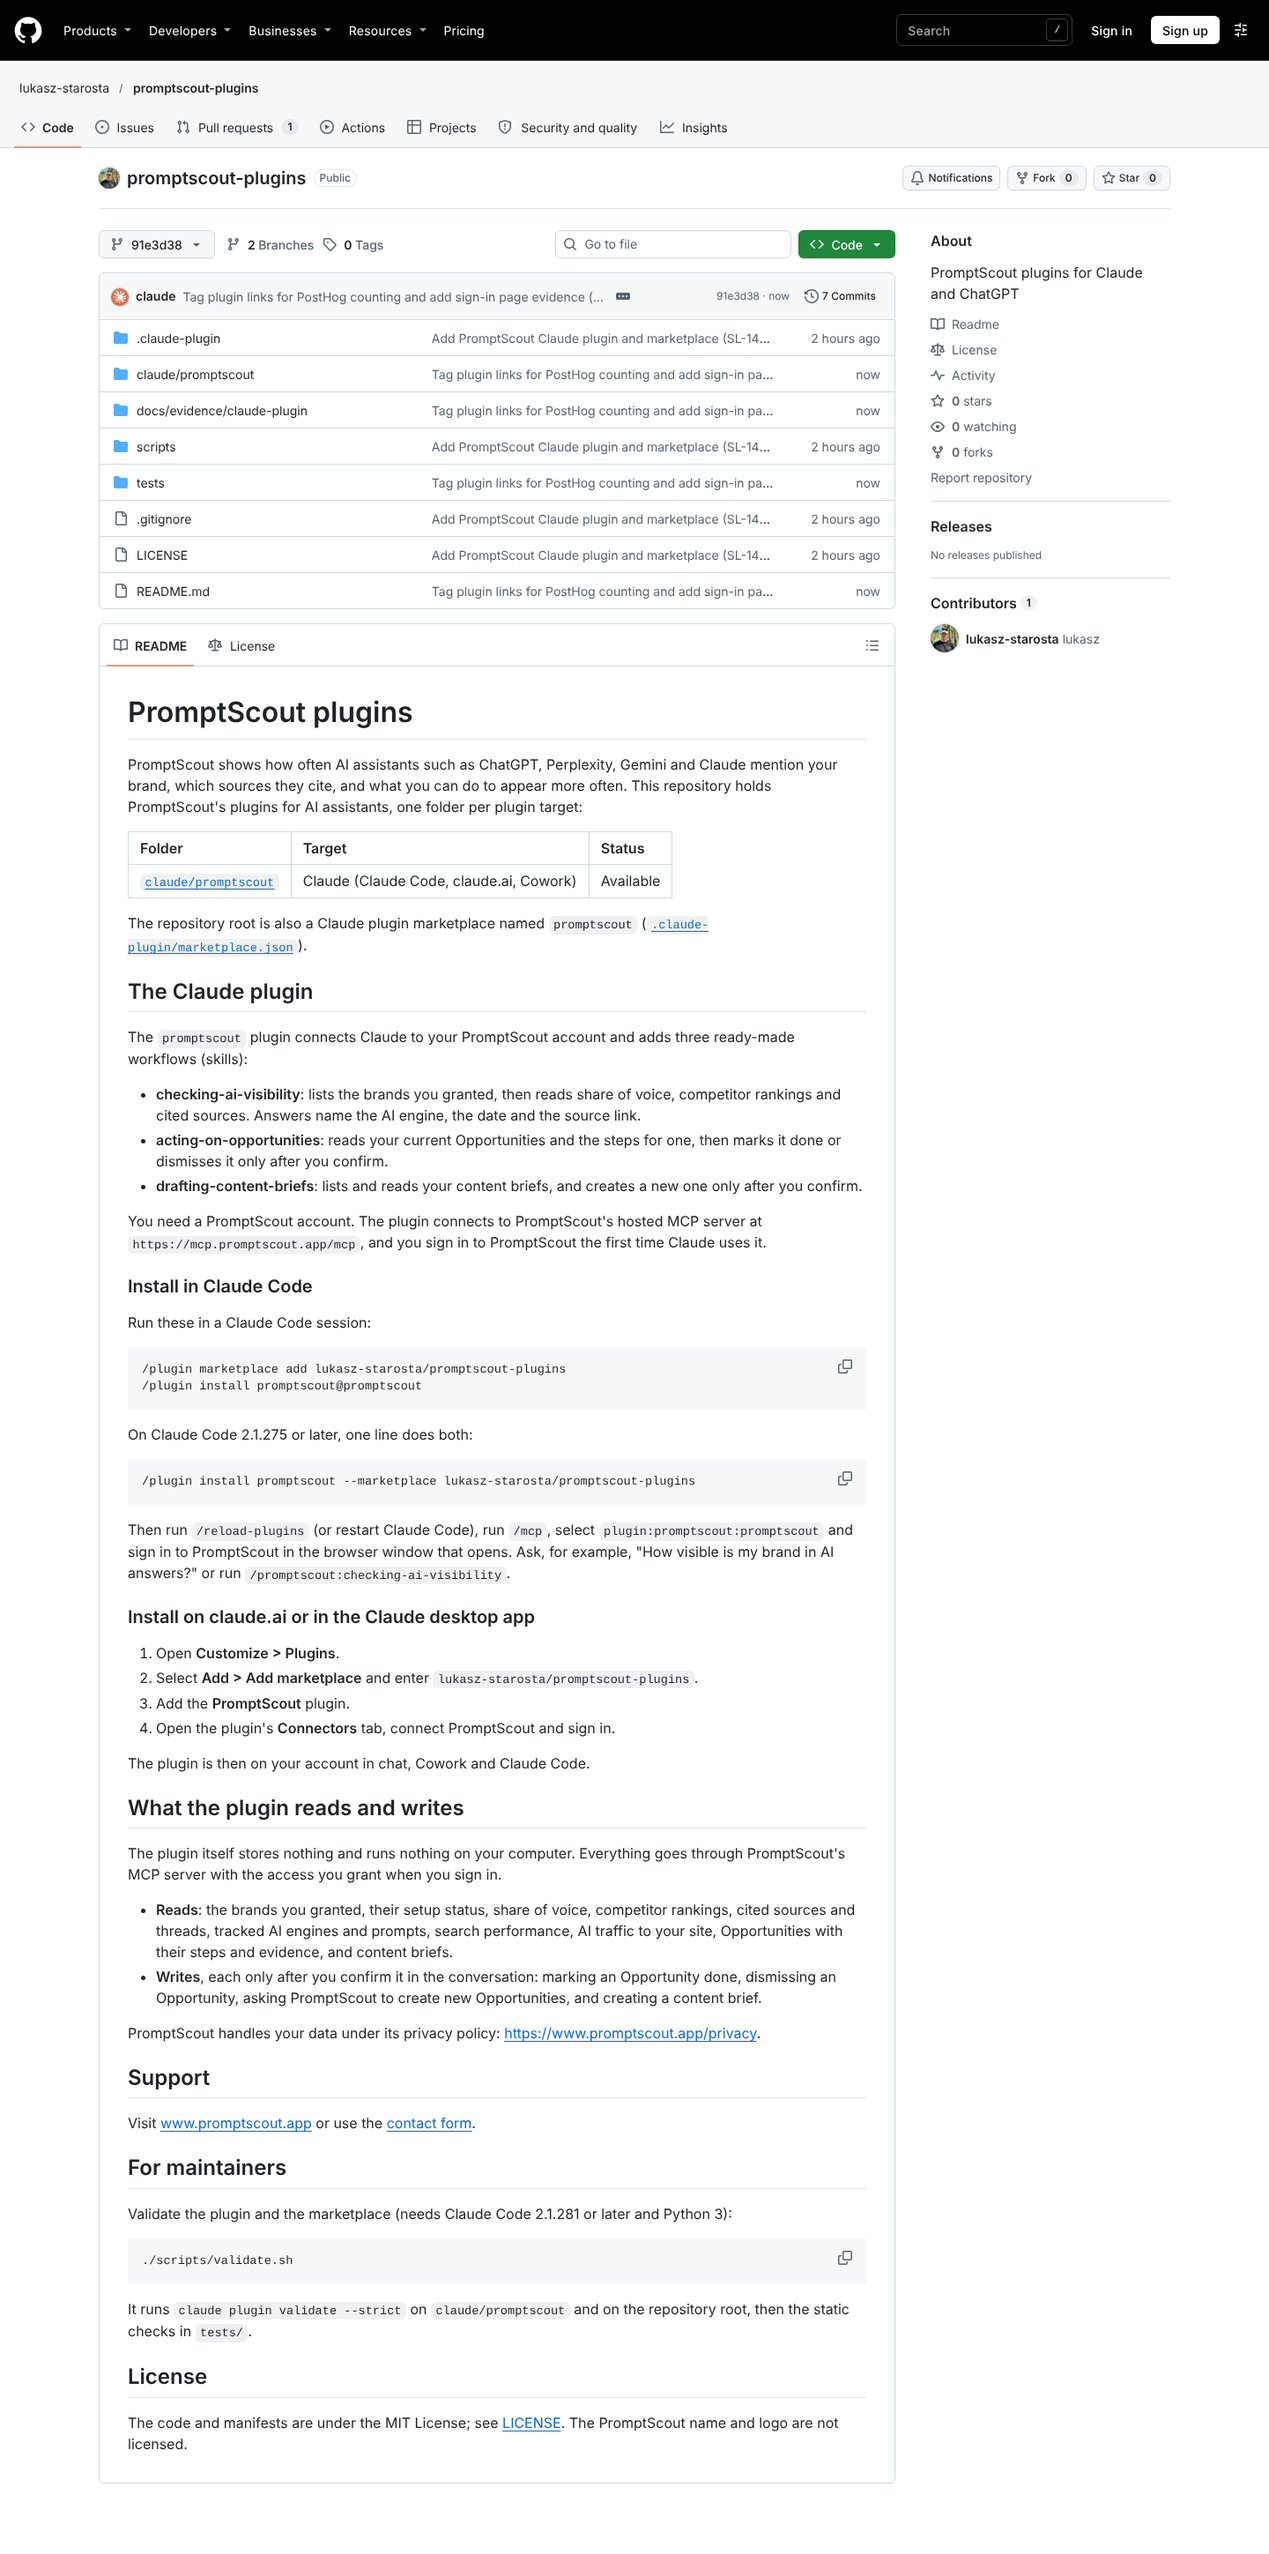
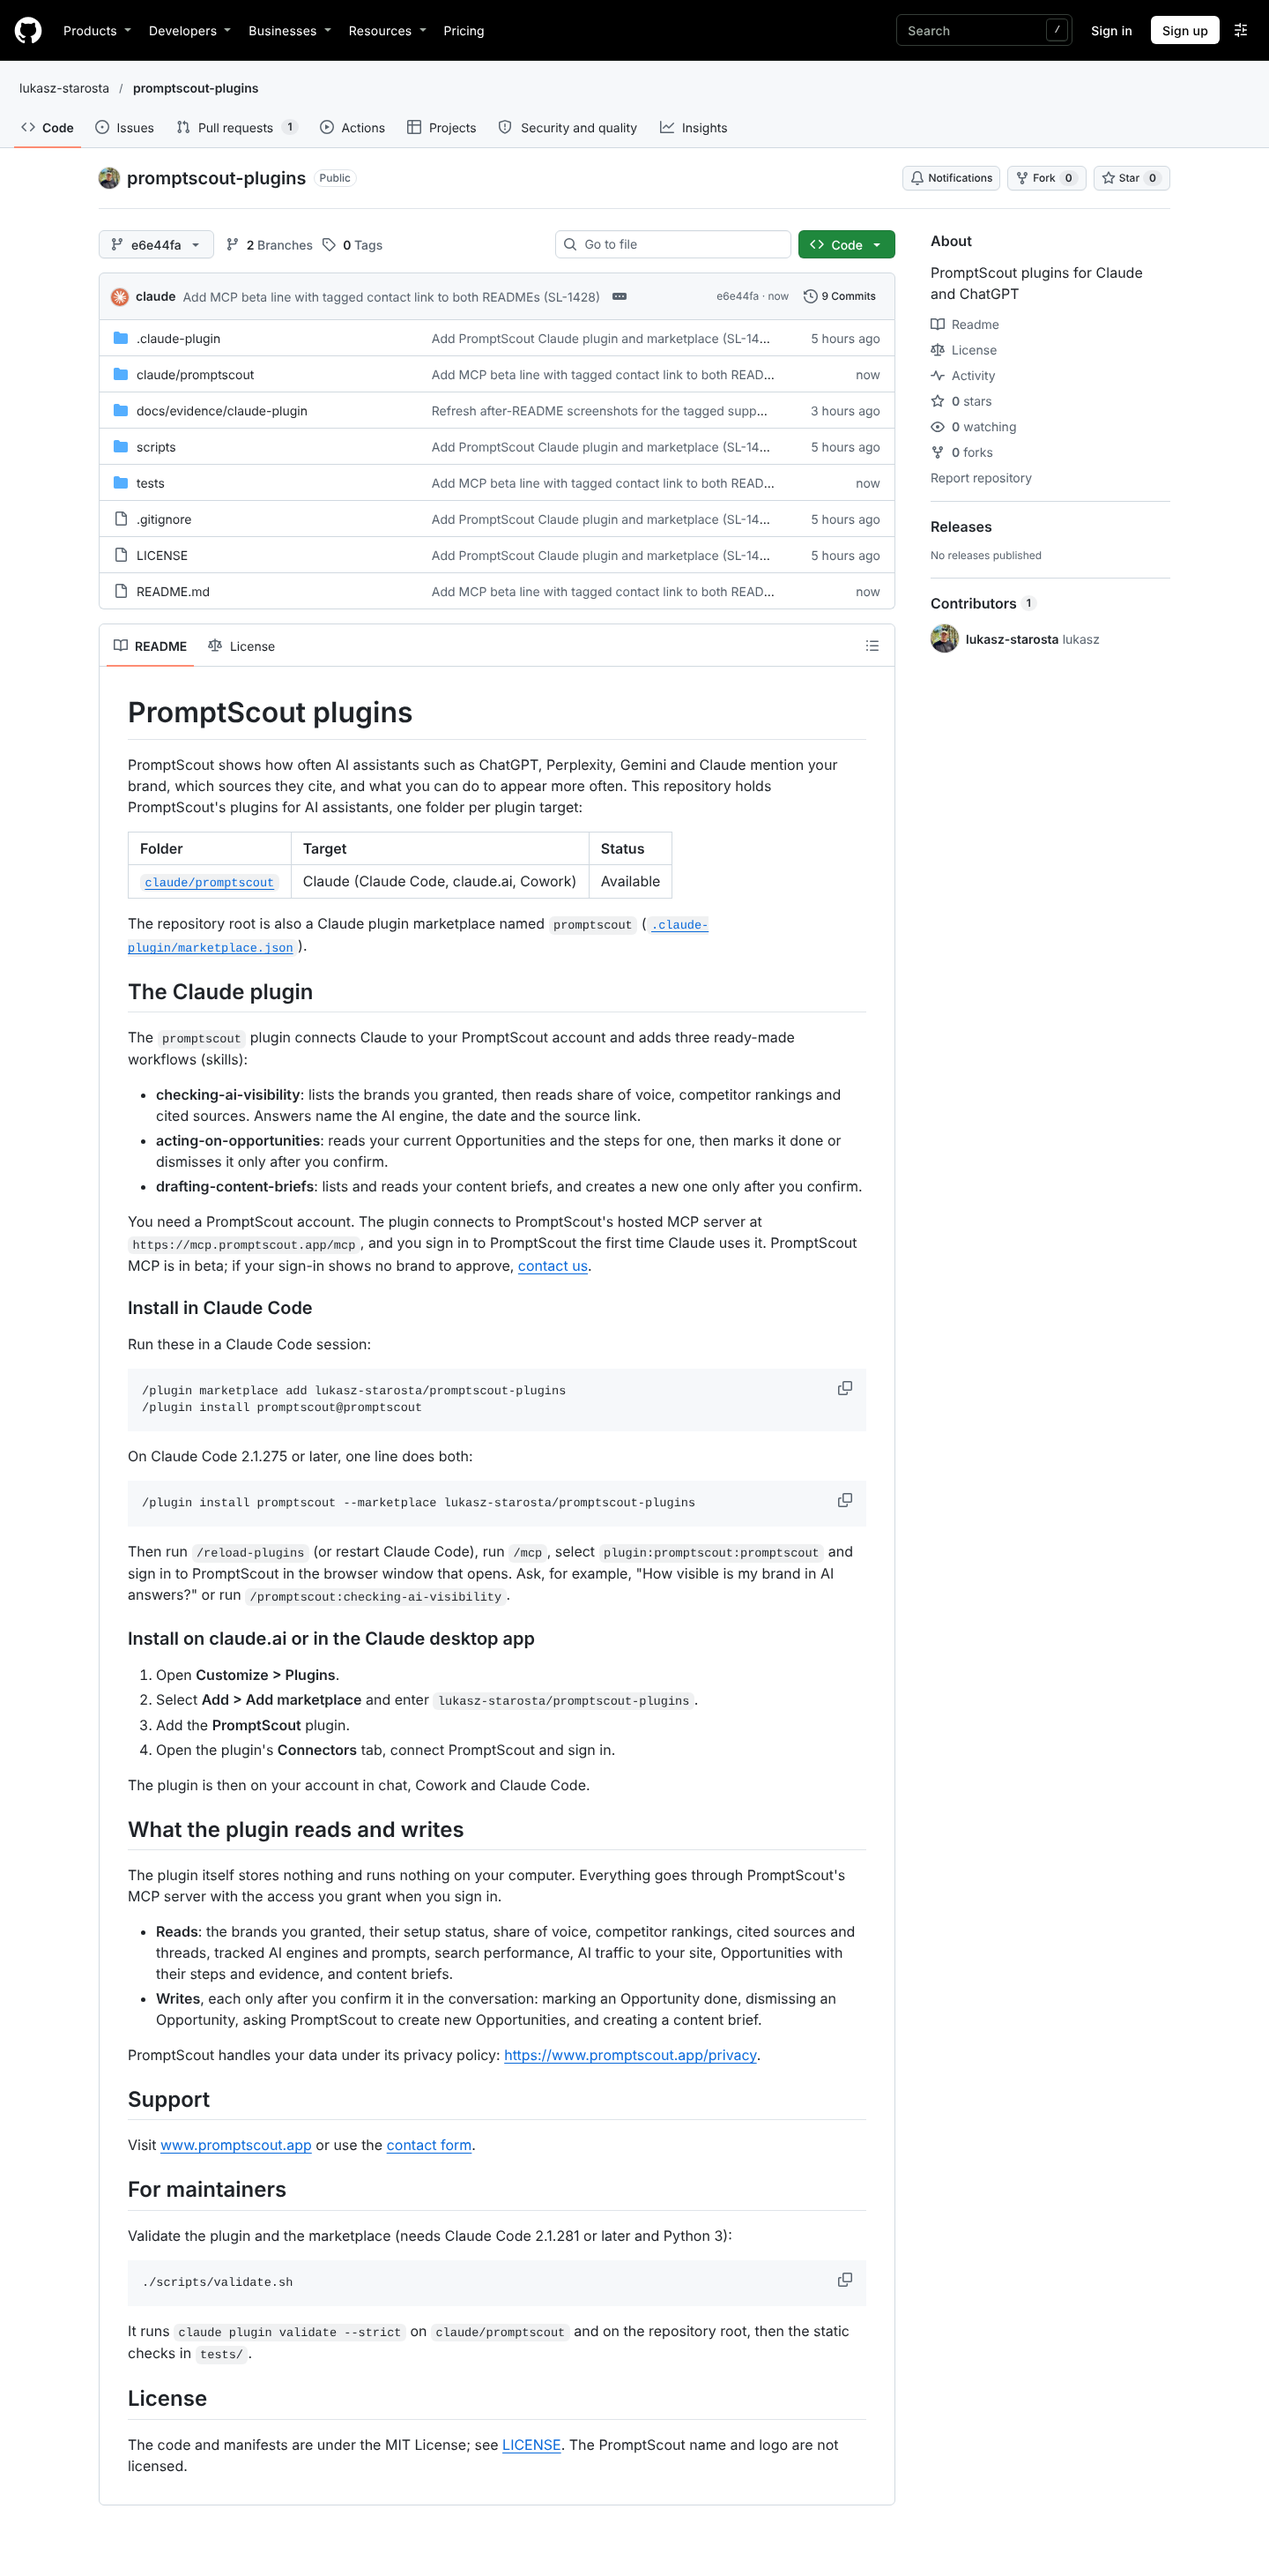
Refresh after-README screenshots for the MCP beta line (SL-1428)
Recaptured after-readme-1440.png and after-readme-390.png from GitHub at
e6e44fa so they show the beta line and its tagged contact link; the
gallery notes the commit.

Agent: dev
Model: opus
Run: C0XDd0J8c3XpFgmuf-CeArwS
Claude-Session: https://claude.ai/code/session_01GQAxwvPDF3hrAEhRVjVQ8t

diff --git a/docs/evidence/claude-plugin/README.md b/docs/evidence/claude-plugin/README.md
@@ -6,8 +6,9 @@ answers) and [pages.json](pages.json).
 
 ## README on GitHub
 
-Before is `main` (the public repository today). After is branch `feat/SL-1428-N_38Tzo6XS`. Both
-are full-page captures of github.com taken on 2026-11-09.
+Before is `main` (the public repository today). After is branch `feat/SL-1428-N_38Tzo6XS` at
+commit `e6e44fa`, which shows the MCP beta line and the tagged support links. Both are full-page
+captures of github.com taken on 2026-11-09.
 
 ### Before (main)
 
